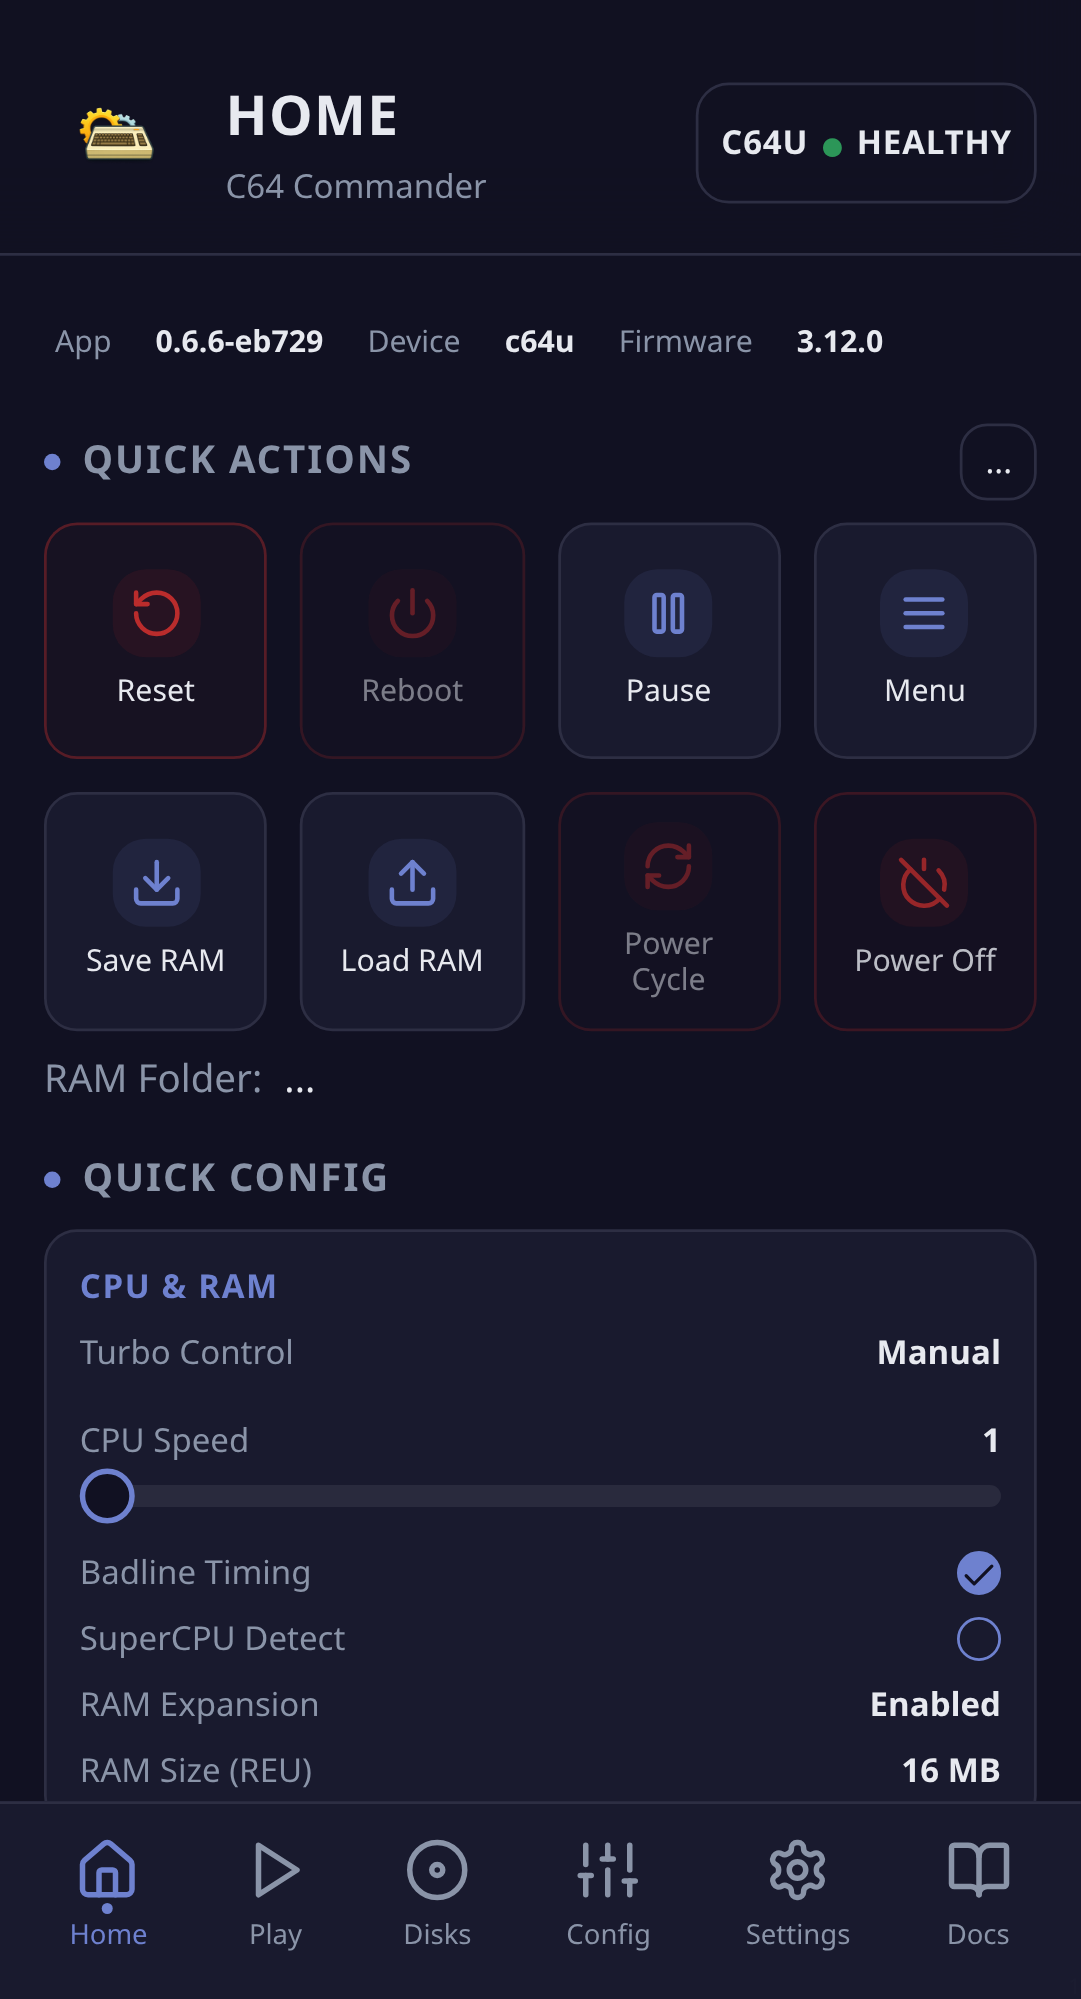
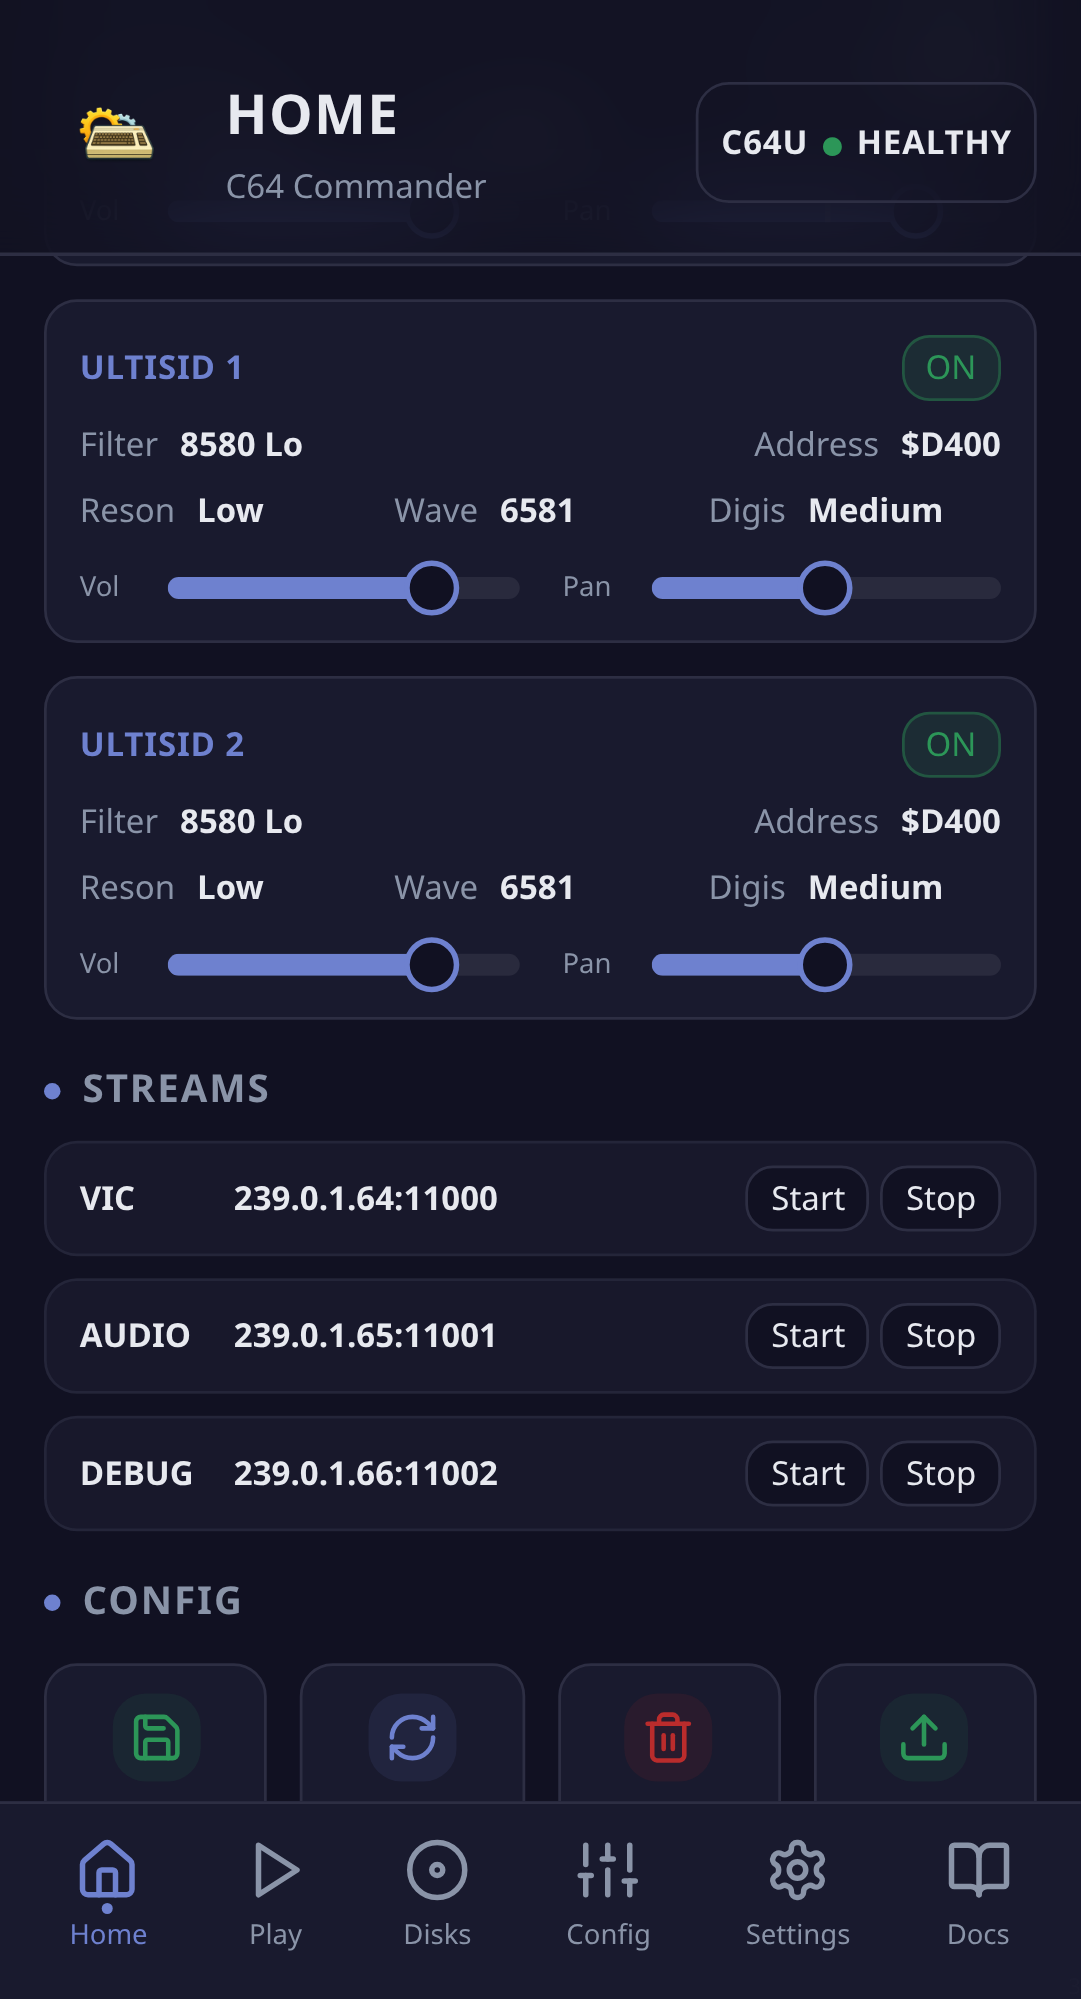
Refactor code structure for improved readability and maintainability

diff --git a/playwright/screenshots.spec.ts b/playwright/screenshots.spec.ts
@@ -35,7 +35,7 @@ import {
   type DisplayProfileViewportId,
 } from "./displayProfileViewports";
 import { registerScreenshotSections, sanitizeSegment } from "./screenshotCatalog";
-import { planHomeScreenshotSlices } from "./homeScreenshotLayout";
+import { planHomeScreenshotSlices, selectCanonicalHomeScreenshotSlices } from "./homeScreenshotLayout";
 import { shouldSkipFuzzyScreenshotPrune } from "../scripts/screenshotPrunePolicy.js";
 import {
   installFixedClock,
@@ -679,15 +679,18 @@ const captureLabeledSections = async (page: Page, testInfo: TestInfo, pageId: st
 
 const captureHomeSections = async (page: Page, testInfo: TestInfo) => {
   const layout = await page.evaluate(() => {
-    const activeMain = document.querySelector('[data-slot-active="true"] main');
+    const activeSlot = document.querySelector('[data-slot-active="true"]');
+    const activeMain = activeSlot?.querySelector('main');
+    const slotElement = activeSlot instanceof HTMLElement ? activeSlot : null;
+    const slotRect = slotElement?.getBoundingClientRect() ?? null;
     const sections = Array.from(activeMain?.querySelectorAll("[data-section-label]") ?? [])
       .map((node) => {
         const label = node.getAttribute("data-section-label")?.trim() ?? "";
         const rect = node.getBoundingClientRect();
         return {
           label,
-          top: rect.top + window.scrollY,
-          bottom: rect.bottom + window.scrollY,
+          top: slotRect ? rect.top - slotRect.top + slotElement!.scrollTop : rect.top + window.scrollY,
+          bottom: slotRect ? rect.bottom - slotRect.top + slotElement!.scrollTop : rect.bottom + window.scrollY,
         };
       })
       .filter((section) => section.label.length > 0 && section.bottom > section.top);
@@ -697,11 +700,12 @@ const captureHomeSections = async (page: Page, testInfo: TestInfo) => {
     const mainStyle = main ? getComputedStyle(main) : null;
     const appBarHeight = Number.parseFloat(rootStyle.getPropertyValue("--app-bar-height")) || 0;
     const bottomInset = Number.parseFloat(mainStyle?.paddingBottom ?? "0") || 0;
-    const maxScroll = Math.max(0, document.documentElement.scrollHeight - window.innerHeight);
+    const viewportHeight = slotElement?.clientHeight ?? window.innerHeight;
+    const maxScroll = slotElement ? Math.max(0, slotElement.scrollHeight - slotElement.clientHeight) : 0;
 
     return {
       sections,
-      viewportHeight: window.innerHeight,
+      viewportHeight,
       topInset: appBarHeight,
       bottomInset,
       maxScroll,
@@ -720,10 +724,16 @@ const captureHomeSections = async (page: Page, testInfo: TestInfo) => {
     maxScroll: layout.maxScroll,
   });
 
-  for (let index = 0; index < slices.length; index += 1) {
-    const slice = slices[index];
-    await page.evaluate((value) => window.scrollTo(0, value), slice.scrollTop);
-    await captureScreenshot(page, testInfo, `home/sections/${String(index + 1).padStart(2, "0")}-${slice.slug}.png`);
+  const canonicalSlices = selectCanonicalHomeScreenshotSlices(slices);
+
+  for (let index = 0; index < canonicalSlices.length; index += 1) {
+    const { fileName, slice } = canonicalSlices[index];
+    await getActiveSlot(page).evaluate((node, nextScrollTop) => {
+      if (node instanceof HTMLElement) {
+        node.scrollTop = nextScrollTop;
+      }
+    }, slice.scrollTop);
+    await captureScreenshot(page, testInfo, `home/sections/${fileName}`);
   }
 };
 

diff --git a/tests/unit/playwright/homeScreenshotLayout.test.ts b/tests/unit/playwright/homeScreenshotLayout.test.ts
@@ -1,5 +1,8 @@
 import { describe, expect, it } from "vitest";
-import { planHomeScreenshotSlices } from "../../../playwright/homeScreenshotLayout";
+import {
+  planHomeScreenshotSlices,
+  selectCanonicalHomeScreenshotSlices,
+} from "../../../playwright/homeScreenshotLayout";
 
 describe("planHomeScreenshotSlices", () => {
   it("groups smaller adjacent sections into minimally overlapping slices", () => {
@@ -55,6 +58,89 @@ describe("planHomeScreenshotSlices", () => {
         slug: "quick-config-part-2",
         scrollTop: 788,
         sectionSlugs: ["quick-config"],
+      },
+    ]);
+  });
+
+  it("selects the canonical README Home storytelling slices", () => {
+    const selected = selectCanonicalHomeScreenshotSlices([
+      {
+        slug: "system-info-to-cpu-ram",
+        scrollTop: 0,
+        sectionSlugs: ["system-info", "quick-actions", "quick-config", "cpu-ram"],
+      },
+      {
+        slug: "system-info-to-cpu-ram-part-2",
+        scrollTop: 180,
+        sectionSlugs: ["system-info", "quick-actions", "quick-config", "cpu-ram", "ports"],
+      },
+      {
+        slug: "quick-config-to-user-interface",
+        scrollTop: 420,
+        sectionSlugs: ["quick-config", "cpu-ram", "ports", "video", "user-interface"],
+      },
+      {
+        slug: "quick-config-to-keyboard-light",
+        scrollTop: 620,
+        sectionSlugs: ["quick-config", "user-interface", "case-light", "keyboard-light"],
+      },
+      {
+        slug: "quick-config-to-printers",
+        scrollTop: 860,
+        sectionSlugs: ["quick-config", "keyboard-light", "drives", "printers"],
+      },
+      {
+        slug: "printers-to-sid",
+        scrollTop: 1080,
+        sectionSlugs: ["printers", "sid", "streams"],
+      },
+      {
+        slug: "sid-to-config",
+        scrollTop: 1300,
+        sectionSlugs: ["sid", "streams", "config"],
+      },
+    ]);
+
+    expect(selected).toEqual([
+      {
+        fileName: "01-system-info-to-cpu-ram.png",
+        slice: {
+          slug: "system-info-to-cpu-ram",
+          scrollTop: 0,
+          sectionSlugs: ["system-info", "quick-actions", "quick-config", "cpu-ram"],
+        },
+      },
+      {
+        fileName: "02-quick-config-to-keyboard-light.png",
+        slice: {
+          slug: "quick-config-to-keyboard-light",
+          scrollTop: 620,
+          sectionSlugs: ["quick-config", "user-interface", "case-light", "keyboard-light"],
+        },
+      },
+      {
+        fileName: "03-quick-config-to-printers.png",
+        slice: {
+          slug: "quick-config-to-printers",
+          scrollTop: 860,
+          sectionSlugs: ["quick-config", "keyboard-light", "drives", "printers"],
+        },
+      },
+      {
+        fileName: "04-printers-to-sid.png",
+        slice: {
+          slug: "printers-to-sid",
+          scrollTop: 1080,
+          sectionSlugs: ["printers", "sid", "streams"],
+        },
+      },
+      {
+        fileName: "05-sid-to-config.png",
+        slice: {
+          slug: "sid-to-config",
+          scrollTop: 1300,
+          sectionSlugs: ["sid", "streams", "config"],
+        },
       },
     ]);
   });

diff --git a/playwright/homeScreenshotLayout.ts b/playwright/homeScreenshotLayout.ts
@@ -10,6 +10,11 @@ export type HomeScreenshotSlice = {
   sectionSlugs: string[];
 };
 
+export type CanonicalHomeScreenshotSlice = {
+  fileName: string;
+  slice: HomeScreenshotSlice;
+};
+
 type PlanHomeScreenshotSlicesOptions = {
   sections: HomeSectionBounds[];
   viewportHeight: number;
@@ -82,4 +87,51 @@ export const planHomeScreenshotSlices = ({
   }
 
   return slices;
+};
+
+const CANONICAL_HOME_SCREENSHOT_REQUIREMENTS: Array<{
+  fileName: string;
+  requiredSectionSlugs: string[];
+}> = [
+  {
+    fileName: "01-system-info-to-cpu-ram.png",
+    requiredSectionSlugs: ["system-info", "cpu-ram"],
+  },
+  {
+    fileName: "02-quick-config-to-keyboard-light.png",
+    requiredSectionSlugs: ["quick-config", "keyboard-light"],
+  },
+  {
+    fileName: "03-quick-config-to-printers.png",
+    requiredSectionSlugs: ["quick-config", "printers"],
+  },
+  {
+    fileName: "04-printers-to-sid.png",
+    requiredSectionSlugs: ["printers", "sid"],
+  },
+  {
+    fileName: "05-sid-to-config.png",
+    requiredSectionSlugs: ["sid", "config"],
+  },
+];
+
+export const selectCanonicalHomeScreenshotSlices = (
+  slices: HomeScreenshotSlice[],
+): CanonicalHomeScreenshotSlice[] => {
+  return CANONICAL_HOME_SCREENSHOT_REQUIREMENTS.map((requirement) => {
+    const slice = slices.find((candidate) =>
+      requirement.requiredSectionSlugs.every((sectionSlug) => candidate.sectionSlugs.includes(sectionSlug)),
+    );
+    if (!slice) {
+      throw new Error(
+        `Missing canonical Home screenshot slice for ${requirement.fileName} (${requirement.requiredSectionSlugs.join(
+          ", ",
+        )})`,
+      );
+    }
+    return {
+      fileName: requirement.fileName,
+      slice,
+    };
+  });
 };
